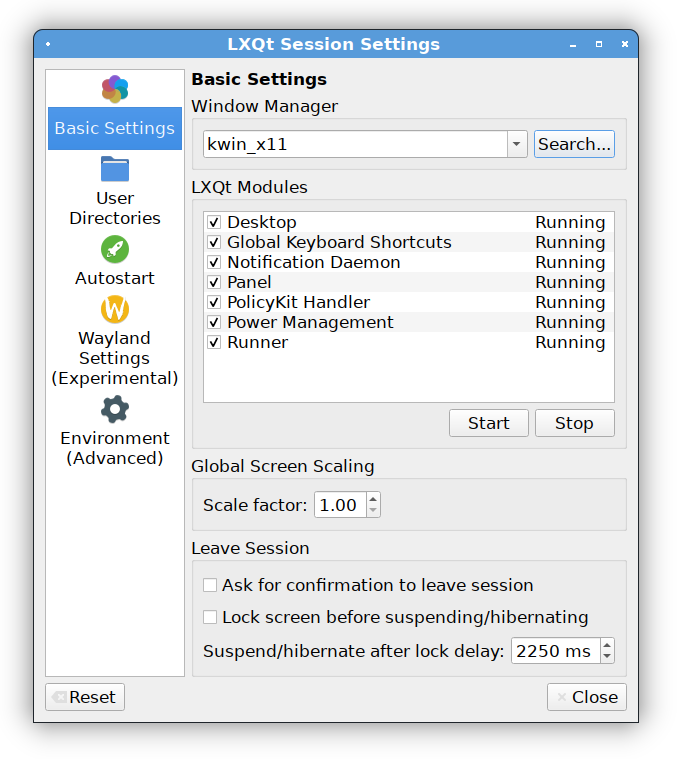
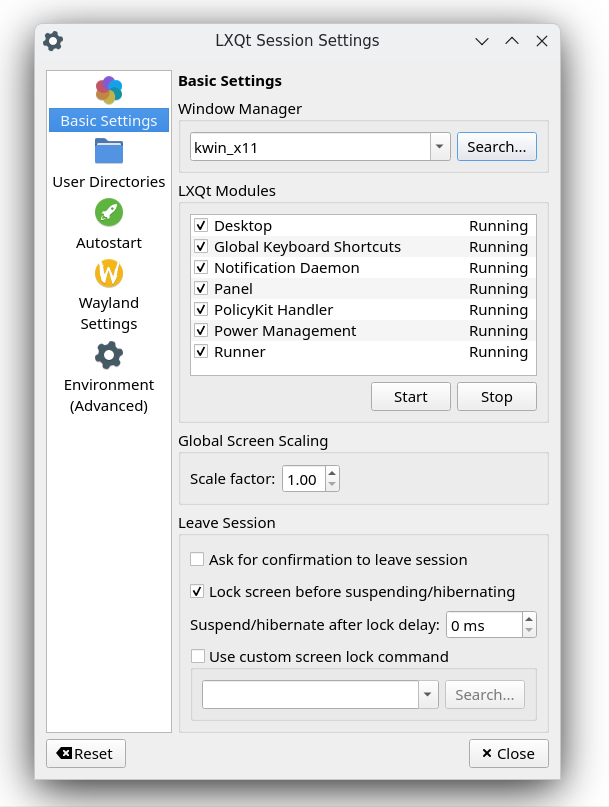
Updated Wayland section and screenshot. (#613)

Changed region(s): [[0.0312, 0.0303, 0.9672, 1.0]]

diff --git a/README.md b/README.md
@@ -43,7 +43,7 @@ Corresponding configuration can be handled by "LXQt Session Settings", see below
 
 A GUI to tweak all kinds of settings affecting the session as a whole.
 
-![lxqt-config-session](lxqt-config-session.png)
+![LXQt Session Configuration](lxqt-config-session.png)
 
 It can be launched from panel's main menu - Preferences - LXQt settings - Session Settings and is provided by "Configuration Center" (binary `lxqt-config`) of [lxqt-config](https://github.com/lxqt/lxqt-config) as well.  
 
@@ -66,9 +66,9 @@ Applications to launch according to the [Autostart Specification](https://www.fr
 Term "LXQt Autostart" refers to applications launched in LXQt sessions only, "Global Autostart" to those launched in all kinds of session. The distinction is relying on keys `OnlyShowIn` and `NotShowIn` of the desktop entry files in use.  
 The underlying desktop entry files can be edited manually, buttons `Add`, `Edit` and `Delete` at the right of pane "Autostart" can serve as some rudimentary editor, too.  
 
-#### Wayland Settings (experimental)
+#### Wayland Settings
 
-Allows setting the compositor and the screenlocker under wayland. Will be shown only if [lxqt-wayland](https://github.com/lxqt/lxqt-wayland/) is installed.
+Allows setting the compositor and the screenlocker under Wayland. Will be shown only if [lxqt-wayland-session](https://github.com/lxqt/lxqt-wayland-session/) is installed.
 
 #### Environment (Advanced)
 Allows for setting arbitrary environment variables which will be available for all software running within LXQt sessions (so not only the components of LXQt itself).
@@ -89,5 +89,5 @@ Translations can be done in [LXQt-Weblate](https://translate.lxqt-project.org/pr
 * [lxqt-leave](https://translate.lxqt-project.org/projects/lxqt-configuration/lxqt-config-leave)
 
 <a href="https://translate.lxqt-project.org/projects/lxqt-configuration/">
-<img src="https://translate.lxqt-project.org/widgets/lxqt-configuration/-/lxqt-config-session/multi-auto.svg" alt="Stato traduzione" />
+<img src="https://translate.lxqt-project.org/widgets/lxqt-configuration/-/lxqt-config-session/multi-auto.svg" alt="Translation Status" />
 </a>
